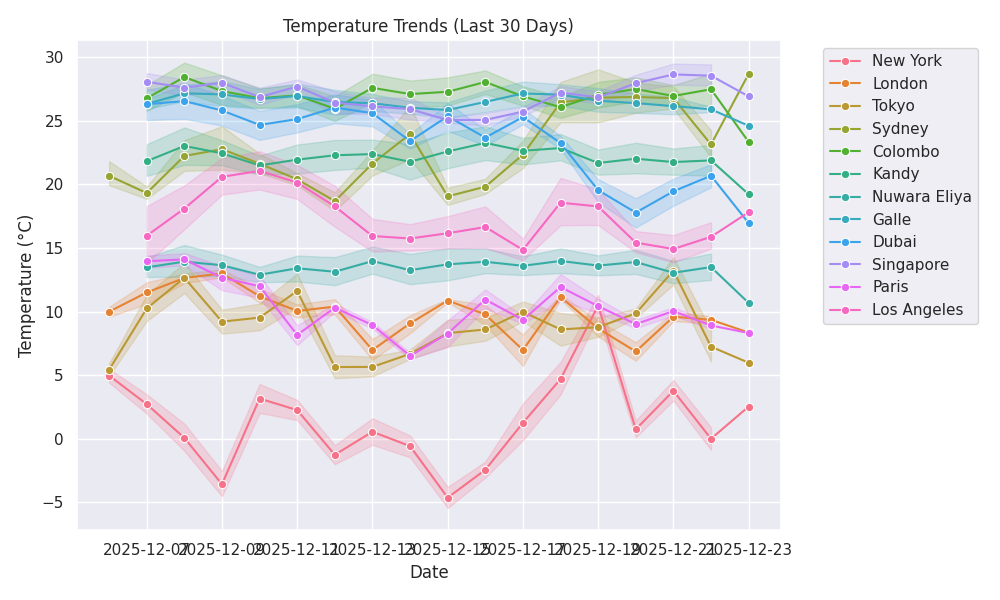
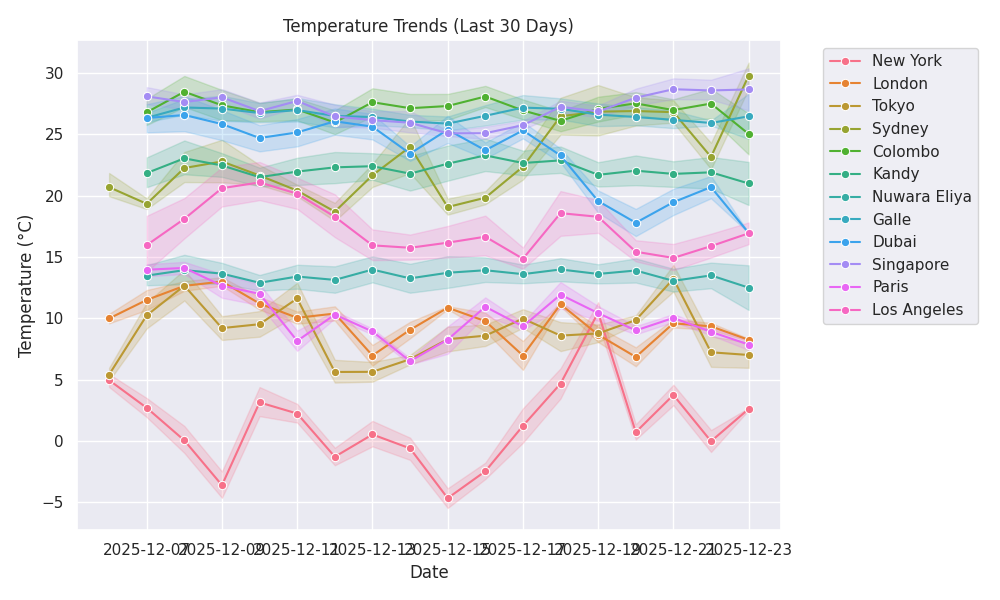
🌦 Weather update: 2025-12-23 03:20

diff --git a/public/index.html b/public/index.html
@@ -11,7 +11,7 @@
     <div class="max-w-6xl mx-auto">
         <header class="mb-8 text-center">
             <h1 class="text-4xl font-bold mb-2">🌍 Global Weather Dashboard</h1>
-            <p class="text-slate-400">Last Updated: 2025-12-23 01:03:05</p>
+            <p class="text-slate-400">Last Updated: 2025-12-23 03:20:42</p>
         </header>
         
         <!-- AI Summary -->
@@ -29,12 +29,12 @@
                     <span class="text-3xl">☀</span>
                 </div>
                 <div class="mt-4">
-                    <p class="text-4xl font-bold">8.31°C</p>
+                    <p class="text-4xl font-bold">7.42°C</p>
                     <p class="text-slate-400 capitalize">clear sky</p>
                 </div>
                 <div class="mt-4 text-sm text-slate-500">
-                    <p>💧 Humidity: 86%</p>
-                    <p>💨 Wind: 3.09 m/s</p>
+                    <p>💧 Humidity: 90%</p>
+                    <p>💨 Wind: 2.06 m/s</p>
                 </div>
             </div>
             
@@ -44,27 +44,27 @@
                     <span class="text-3xl">☁</span>
                 </div>
                 <div class="mt-4">
-                    <p class="text-4xl font-bold">8.35°C</p>
+                    <p class="text-4xl font-bold">8.15°C</p>
                     <p class="text-slate-400 capitalize">overcast clouds</p>
                 </div>
                 <div class="mt-4 text-sm text-slate-500">
-                    <p>💧 Humidity: 92%</p>
-                    <p>💨 Wind: 3.09 m/s</p>
+                    <p>💧 Humidity: 89%</p>
+                    <p>💨 Wind: 5.14 m/s</p>
                 </div>
             </div>
             
             <div class="bg-slate-800 p-6 rounded-xl shadow-lg border-t-4 border-blue-500 hover:scale-105 transition-transform">
                 <div class="flex justify-between items-start">
                     <h3 class="text-xl font-bold">Sydney</h3>
-                    <span class="text-3xl">☁</span>
+                    <span class="text-3xl">☀</span>
                 </div>
                 <div class="mt-4">
-                    <p class="text-4xl font-bold">28.7°C</p>
-                    <p class="text-slate-400 capitalize">few clouds</p>
+                    <p class="text-4xl font-bold">30.83°C</p>
+                    <p class="text-slate-400 capitalize">clear sky</p>
                 </div>
                 <div class="mt-4 text-sm text-slate-500">
-                    <p>💧 Humidity: 45%</p>
-                    <p>💨 Wind: 4.12 m/s</p>
+                    <p>💧 Humidity: 42%</p>
+                    <p>💨 Wind: 8.75 m/s</p>
                 </div>
             </div>
             
@@ -74,12 +74,12 @@
                     <span class="text-3xl">☁</span>
                 </div>
                 <div class="mt-4">
-                    <p class="text-4xl font-bold">26.93°C</p>
+                    <p class="text-4xl font-bold">30.36°C</p>
                     <p class="text-slate-400 capitalize">broken clouds</p>
                 </div>
                 <div class="mt-4 text-sm text-slate-500">
-                    <p>💧 Humidity: 82%</p>
-                    <p>💨 Wind: 2.57 m/s</p>
+                    <p>💧 Humidity: 65%</p>
+                    <p>💨 Wind: 4.63 m/s</p>
                 </div>
             </div>
             
@@ -94,7 +94,7 @@
                 </div>
                 <div class="mt-4 text-sm text-slate-500">
                     <p>💧 Humidity: 63%</p>
-                    <p>💨 Wind: 1.03 m/s</p>
+                    <p>💨 Wind: 2.06 m/s</p>
                 </div>
             </div>
             
@@ -104,12 +104,12 @@
                     <span class="text-3xl">☁</span>
                 </div>
                 <div class="mt-4">
-                    <p class="text-4xl font-bold">10.68°C</p>
-                    <p class="text-slate-400 capitalize">overcast clouds</p>
+                    <p class="text-4xl font-bold">14.32°C</p>
+                    <p class="text-slate-400 capitalize">broken clouds</p>
                 </div>
                 <div class="mt-4 text-sm text-slate-500">
-                    <p>💧 Humidity: 97%</p>
-                    <p>💨 Wind: 1.51 m/s</p>
+                    <p>💧 Humidity: 84%</p>
+                    <p>💨 Wind: 2.05 m/s</p>
                 </div>
             </div>
             
@@ -119,12 +119,12 @@
                     <span class="text-3xl">☁</span>
                 </div>
                 <div class="mt-4">
-                    <p class="text-4xl font-bold">24.62°C</p>
-                    <p class="text-slate-400 capitalize">overcast clouds</p>
+                    <p class="text-4xl font-bold">28.29°C</p>
+                    <p class="text-slate-400 capitalize">broken clouds</p>
                 </div>
                 <div class="mt-4 text-sm text-slate-500">
-                    <p>💧 Humidity: 89%</p>
-                    <p>💨 Wind: 2.62 m/s</p>
+                    <p>💧 Humidity: 79%</p>
+                    <p>💨 Wind: 0.45 m/s</p>
                 </div>
             </div>
             
@@ -134,12 +134,12 @@
                     <span class="text-3xl">☁</span>
                 </div>
                 <div class="mt-4">
-                    <p class="text-4xl font-bold">19.23°C</p>
-                    <p class="text-slate-400 capitalize">overcast clouds</p>
+                    <p class="text-4xl font-bold">22.74°C</p>
+                    <p class="text-slate-400 capitalize">broken clouds</p>
                 </div>
                 <div class="mt-4 text-sm text-slate-500">
-                    <p>💧 Humidity: 98%</p>
-                    <p>💨 Wind: 1.89 m/s</p>
+                    <p>💧 Humidity: 85%</p>
+                    <p>💨 Wind: 1.85 m/s</p>
                 </div>
             </div>
             
@@ -149,12 +149,12 @@
                     <span class="text-3xl">☁</span>
                 </div>
                 <div class="mt-4">
-                    <p class="text-4xl font-bold">23.35°C</p>
-                    <p class="text-slate-400 capitalize">scattered clouds</p>
+                    <p class="text-4xl font-bold">26.69°C</p>
+                    <p class="text-slate-400 capitalize">few clouds</p>
                 </div>
                 <div class="mt-4 text-sm text-slate-500">
-                    <p>💧 Humidity: 87%</p>
-                    <p>💨 Wind: 6.12 m/s</p>
+                    <p>💧 Humidity: 77%</p>
+                    <p>💨 Wind: 6.42 m/s</p>
                 </div>
             </div>
             
@@ -164,12 +164,12 @@
                     <span class="text-3xl">☁</span>
                 </div>
                 <div class="mt-4">
-                    <p class="text-4xl font-bold">2.52°C</p>
-                    <p class="text-slate-400 capitalize">scattered clouds</p>
+                    <p class="text-4xl font-bold">2.71°C</p>
+                    <p class="text-slate-400 capitalize">overcast clouds</p>
                 </div>
                 <div class="mt-4 text-sm text-slate-500">
-                    <p>💧 Humidity: 55%</p>
-                    <p>💨 Wind: 5.14 m/s</p>
+                    <p>💧 Humidity: 53%</p>
+                    <p>💨 Wind: 5.66 m/s</p>
                 </div>
             </div>
             
@@ -179,12 +179,12 @@
                     <span class="text-3xl">☁</span>
                 </div>
                 <div class="mt-4">
-                    <p class="text-4xl font-bold">5.97°C</p>
-                    <p class="text-slate-400 capitalize">few clouds</p>
+                    <p class="text-4xl font-bold">8.06°C</p>
+                    <p class="text-slate-400 capitalize">broken clouds</p>
                 </div>
                 <div class="mt-4 text-sm text-slate-500">
-                    <p>💧 Humidity: 54%</p>
-                    <p>💨 Wind: 6.69 m/s</p>
+                    <p>💧 Humidity: 51%</p>
+                    <p>💨 Wind: 5.66 m/s</p>
                 </div>
             </div>
             
@@ -194,12 +194,12 @@
                     <span class="text-3xl">🌫</span>
                 </div>
                 <div class="mt-4">
-                    <p class="text-4xl font-bold">17.81°C</p>
+                    <p class="text-4xl font-bold">16.04°C</p>
                     <p class="text-slate-400 capitalize">haze</p>
                 </div>
                 <div class="mt-4 text-sm text-slate-500">
-                    <p>💧 Humidity: 75%</p>
-                    <p>💨 Wind: 3.09 m/s</p>
+                    <p>💧 Humidity: 86%</p>
+                    <p>💨 Wind: 1.54 m/s</p>
                 </div>
             </div>
             

diff --git a/README.md b/README.md
@@ -8,8 +8,8 @@
 
 ---
 
-## ⚡ Live Status (Updated: 2025-12-23 01:03 UTC)
-![Paris](https://img.shields.io/badge/Paris-8.31°C-blue) ![London](https://img.shields.io/badge/London-8.35°C-blue) ![Sydney](https://img.shields.io/badge/Sydney-28.7°C-orange) ![Singapore](https://img.shields.io/badge/Singapore-26.93°C-orange) ![Dubai](https://img.shields.io/badge/Dubai-16.96°C-green) ![Nuwara Eliya](https://img.shields.io/badge/Nuwara%20Eliya-10.68°C-blue) ![Galle](https://img.shields.io/badge/Galle-24.62°C-green) ![Kandy](https://img.shields.io/badge/Kandy-19.23°C-green) ![Colombo](https://img.shields.io/badge/Colombo-23.35°C-green) ![New York](https://img.shields.io/badge/New%20York-2.52°C-blue) ![Tokyo](https://img.shields.io/badge/Tokyo-5.97°C-blue) ![Los Angeles](https://img.shields.io/badge/Los%20Angeles-17.81°C-green) 
+## ⚡ Live Status (Updated: 2025-12-23 03:20 UTC)
+![Paris](https://img.shields.io/badge/Paris-7.42°C-blue) ![London](https://img.shields.io/badge/London-8.15°C-blue) ![Sydney](https://img.shields.io/badge/Sydney-30.83°C-red) ![Singapore](https://img.shields.io/badge/Singapore-30.36°C-red) ![Dubai](https://img.shields.io/badge/Dubai-16.96°C-green) ![Nuwara Eliya](https://img.shields.io/badge/Nuwara%20Eliya-14.32°C-blue) ![Galle](https://img.shields.io/badge/Galle-28.29°C-orange) ![Kandy](https://img.shields.io/badge/Kandy-22.74°C-green) ![Colombo](https://img.shields.io/badge/Colombo-26.69°C-orange) ![New York](https://img.shields.io/badge/New%20York-2.71°C-blue) ![Tokyo](https://img.shields.io/badge/Tokyo-8.06°C-blue) ![Los Angeles](https://img.shields.io/badge/Los%20Angeles-16.04°C-green) 
 
 <div align="center">
   <h3>🏆 Weather Records (Live)</h3>
@@ -19,8 +19,8 @@
         <td align="center">❄ <b>Coldest City</b></td>
     </tr>
     <tr>
-        <td align="center"><b>Sydney</b><br>28.7°C</td>
-        <td align="center"><b>New York</b><br>2.52°C</td>
+        <td align="center"><b>Sydney</b><br>30.83°C</td>
+        <td align="center"><b>New York</b><br>2.71°C</td>
     </tr>
   </table>
 </div>
@@ -28,18 +28,18 @@
 ## 📊 Global Overview
 | 🌍 City | 🌡 Temp | 🌤 Condition | 💧 Humidity | 🌬 Wind |
 |---|---|---|---|---|
-| **Paris** | 8.31°C | clear sky | 🟦🟦🟦🟦⬜ 86% | 3.09 m/s |
-| **London** | 8.35°C | overcast clouds | 🟦🟦🟦🟦⬜ 92% | 3.09 m/s |
-| **Sydney** | 28.7°C | few clouds | 🟦🟦⬜⬜⬜ 45% | 4.12 m/s |
-| **Singapore** | 26.93°C | broken clouds | 🟦🟦🟦🟦⬜ 82% | 2.57 m/s |
-| **Dubai** | 16.96°C | clear sky | 🟦🟦🟦⬜⬜ 63% | 1.03 m/s |
-| **Nuwara Eliya** | 10.68°C | overcast clouds | 🟦🟦🟦🟦⬜ 97% | 1.51 m/s |
-| **Galle** | 24.62°C | overcast clouds | 🟦🟦🟦🟦⬜ 89% | 2.62 m/s |
-| **Kandy** | 19.23°C | overcast clouds | 🟦🟦🟦🟦⬜ 98% | 1.89 m/s |
-| **Colombo** | 23.35°C | scattered clouds | 🟦🟦🟦🟦⬜ 87% | 6.12 m/s |
-| **New York** | 2.52°C | scattered clouds | 🟦🟦⬜⬜⬜ 55% | 5.14 m/s |
-| **Tokyo** | 5.97°C | few clouds | 🟦🟦⬜⬜⬜ 54% | 6.69 m/s |
-| **Los Angeles** | 17.81°C | haze | 🟦🟦🟦⬜⬜ 75% | 3.09 m/s |
+| **Paris** | 7.42°C | clear sky | 🟦🟦🟦🟦⬜ 90% | 2.06 m/s |
+| **London** | 8.15°C | overcast clouds | 🟦🟦🟦🟦⬜ 89% | 5.14 m/s |
+| **Sydney** | 30.83°C | clear sky | 🟦🟦⬜⬜⬜ 42% | 8.75 m/s |
+| **Singapore** | 30.36°C | broken clouds | 🟦🟦🟦⬜⬜ 65% | 4.63 m/s |
+| **Dubai** | 16.96°C | clear sky | 🟦🟦🟦⬜⬜ 63% | 2.06 m/s |
+| **Nuwara Eliya** | 14.32°C | broken clouds | 🟦🟦🟦🟦⬜ 84% | 2.05 m/s |
+| **Galle** | 28.29°C | broken clouds | 🟦🟦🟦⬜⬜ 79% | 0.45 m/s |
+| **Kandy** | 22.74°C | broken clouds | 🟦🟦🟦🟦⬜ 85% | 1.85 m/s |
+| **Colombo** | 26.69°C | few clouds | 🟦🟦🟦⬜⬜ 77% | 6.42 m/s |
+| **New York** | 2.71°C | overcast clouds | 🟦🟦⬜⬜⬜ 53% | 5.66 m/s |
+| **Tokyo** | 8.06°C | broken clouds | 🟦🟦⬜⬜⬜ 51% | 5.66 m/s |
+| **Los Angeles** | 16.04°C | haze | 🟦🟦🟦🟦⬜ 86% | 1.54 m/s |
 
 
 ## 📈 Temperature Trends
